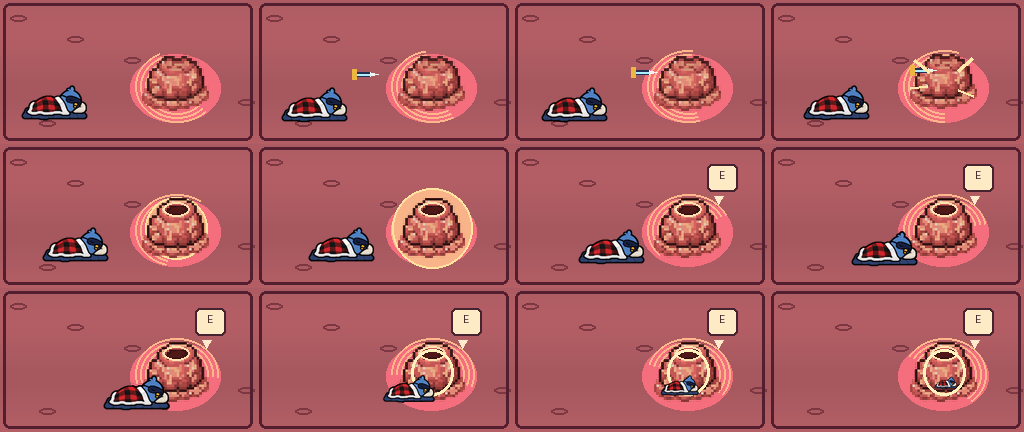
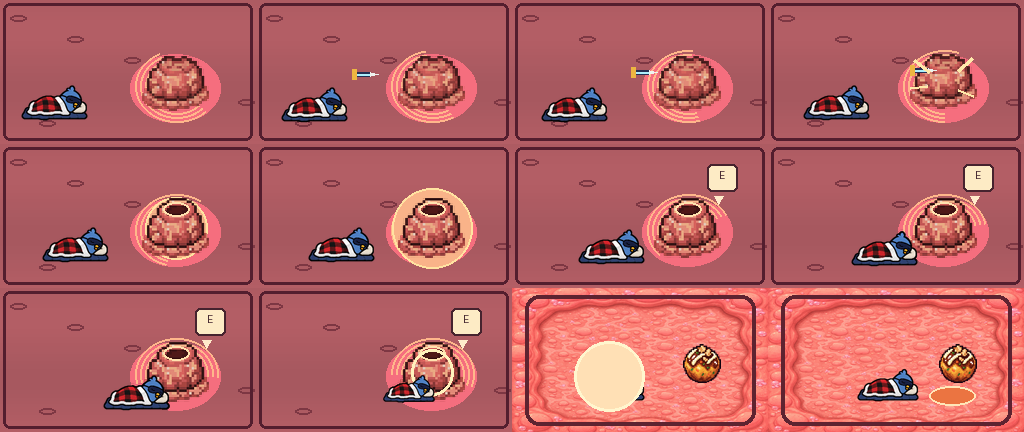
Show mini-stage destination in blood clot tutorial clip

Changed region(s): [[0.5, 0.662, 1.0, 1.0]]

diff --git a/Tools/TutorialClips/generate.py b/Tools/TutorialClips/generate.py
@@ -44,6 +44,7 @@ def actor(name):
 
 
 ART = {name: actor(name) for name in ACTORS}
+MINI_ROOM = Image.open(ROOT / "Assets/Prefabs/MiniStages/miniOG.png").convert("RGBA")
 
 
 def paste(im, name, x, y, width, wobble=0):
@@ -92,6 +93,19 @@ def render(effect, frame):
 
     if effect == "blood_clot":
         # Show the real game flow: defeat the clot, approach its portal, then E.
+        if frame >= 10:
+            # Use the actual mini-stage room texture to make the destination clear.
+            im = MINI_ROOM.resize(SIZE, Image.Resampling.LANCZOS)
+            d = ImageDraw.Draw(im, "RGBA")
+            d.rounded_rectangle((13, 7, 243, 137), radius=14,
+                                outline=(94, 35, 48, 220), width=4)
+            paste(im, "hyuki", 102 + (frame-10)*18, 89, 63)
+            paste(im, "takoyaki", 190, 76, 38)
+            if frame == 10:
+                circle(d, 97, 88, 35, (255, 224, 181, 90), (255, 246, 206, 230), 3)
+            else:
+                hazard(d, 184, 108, 23, (235, 116, 65, 150))
+            return im.convert("RGB")
         hx = [54, 58, 62, 68, 75, 85, 99, 116, 136, 153, 168, 178][frame]
         d.ellipse((130, 54, 220, 122), fill=(245, 110, 126, 43))
         for j in range(3):
